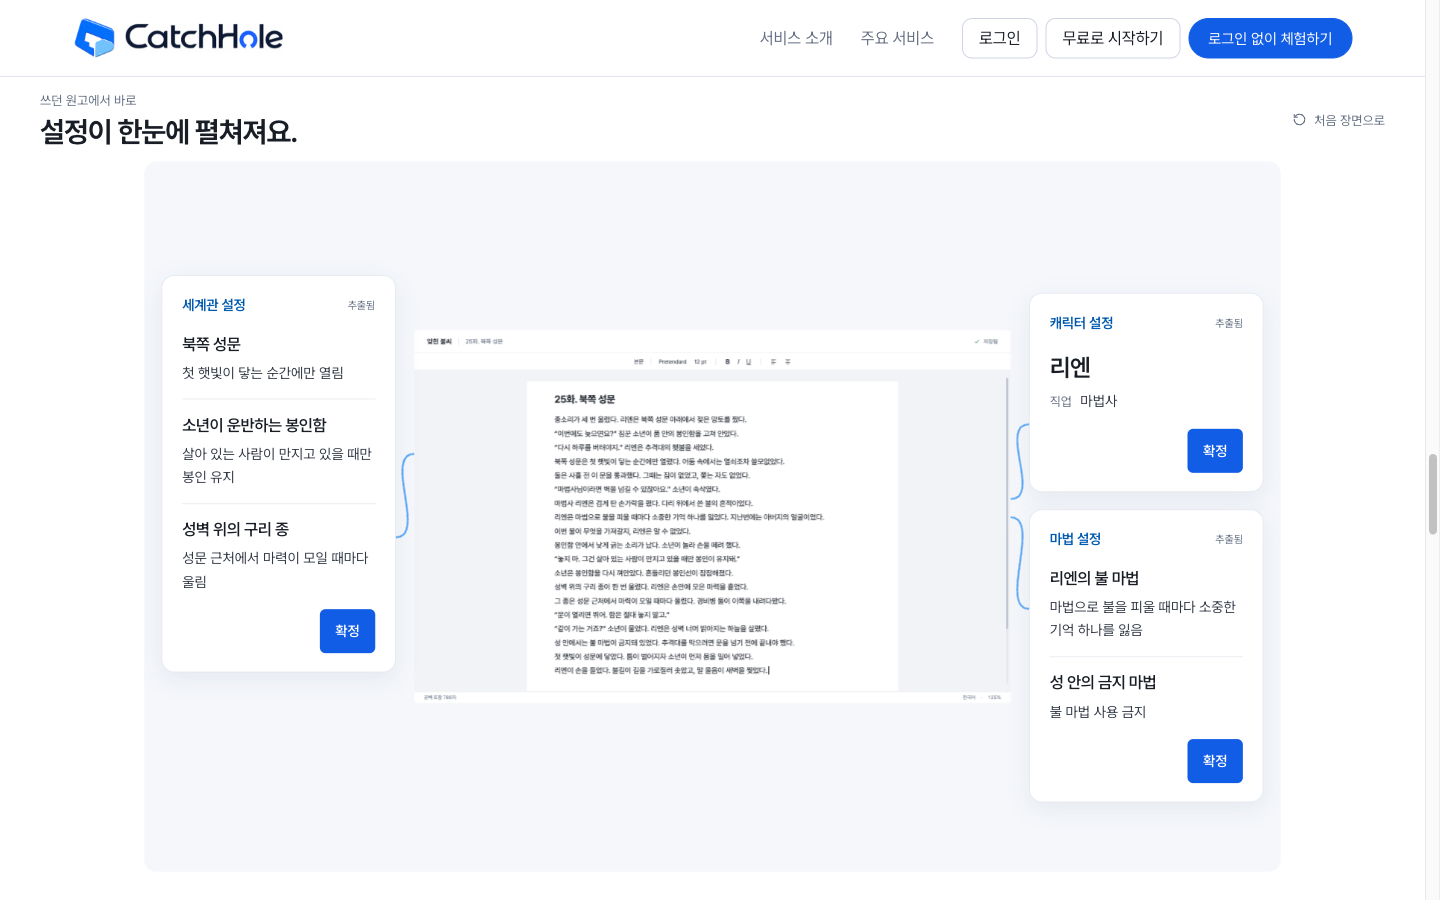
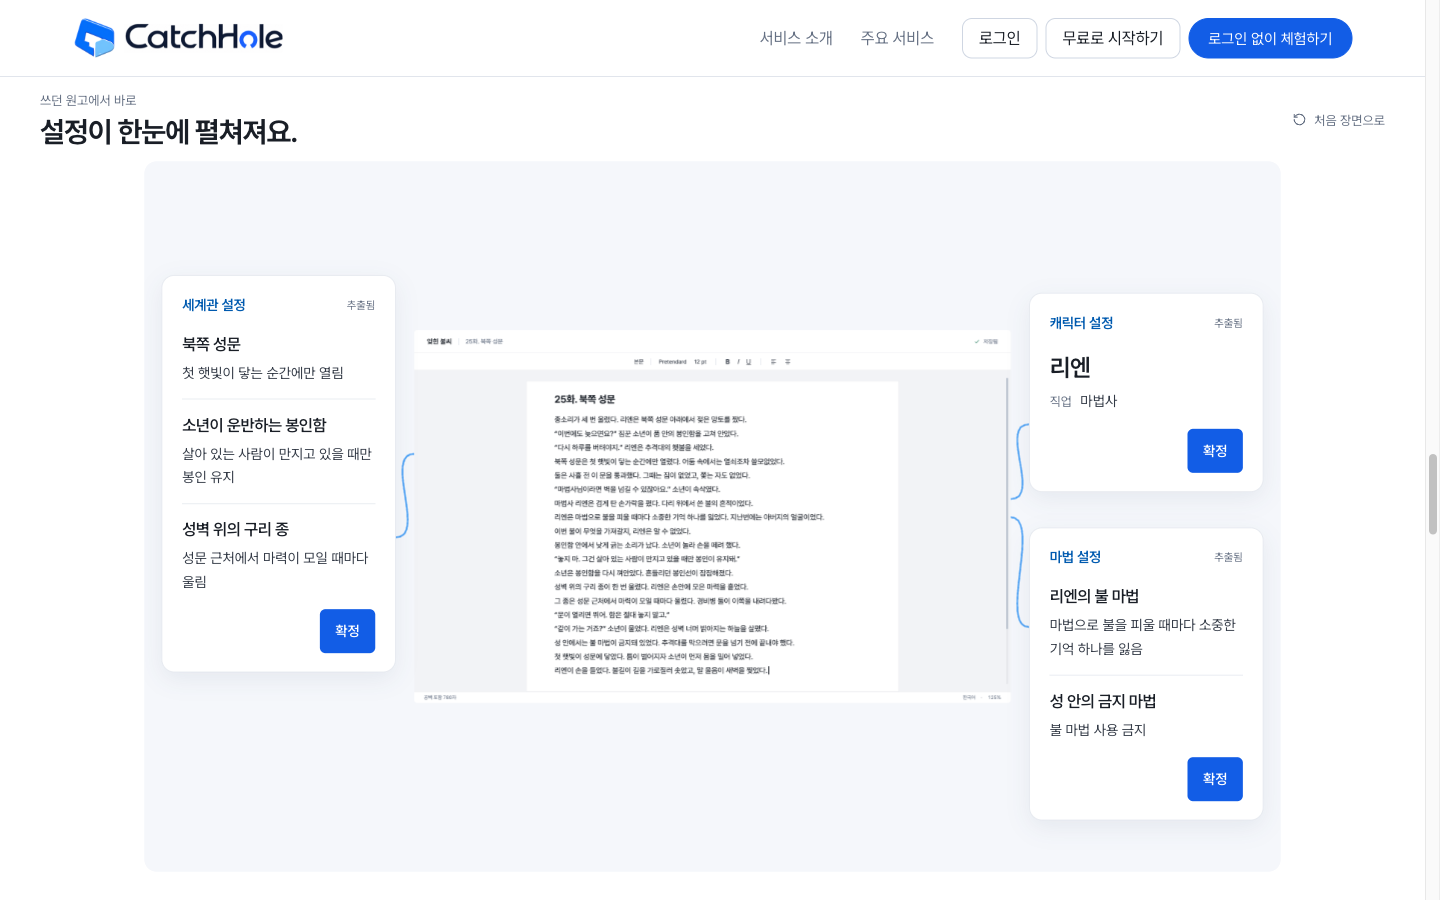
docs(landing): 리뷰 보완 후 디자인 캡처와 재생 규칙 갱신
- Pencil에서 참조하는 설정 추출·완료 캡처를 가독성 보완이 적용된 실제 화면으로 갱신한다.
- 모션 감소 시 수동 확정, 백그라운드 최초 재생 보류, 낮은 화면에서의 카드 배치 기준을 기록한다.
- 승인한 화면 흐름과 검증 기록을 코드 수정과 분리해 디자인 산출물만 독립적으로 확인할 수 있게 한다.

Changed region(s): [[0.7188, 0.5911, 0.875, 0.84], [0.8125, 0.8089, 0.875, 0.9022], [0.8438, 0.5911, 0.875, 0.6222]]

diff --git a/docs/screen-flow.md b/docs/screen-flow.md
@@ -616,5 +616,7 @@ flowchart TD
 
 - 데스크톱: 여백·둥근 모서리가 있는 작가 장면 → 스크롤/드래그로 확장·영상 진행 → 노트북 마지막 프레임 → 25화 원고 → 원고 주변의 설정 6개 → 종류별 확정 → 체험·무료 시작 CTA → 기존 제품 데모와 하단 소개. 같은 스크롤 위치에서 같은 장면을 표시한다.
 - 모바일(680px 이하): 첫 화면 영상 일반 재생 → 같은 위치에서 25화 원고 표시 → 세계관·캐릭터·마법 설정 6개가 세로로 순차 추출 → 종류별 확정 → 완료 문구와 체험·무료 시작 CTA → 기존 제품 소개. 영상 이후 약 18초의 시간 기반 진행이며 스크롤 위치와 연결하거나 자동 스크롤하지 않는다. 영상과 추출의 일시정지·재개, 직접 확정, 전체 다시 보기를 제공한다. 모달·탭 비활성 시 진행을 멈춘다.
-- 모션 감소: 자동 재생·스크롤 애니메이션 없이 수동 재생과 정적 장면 탐색을 제공한다.
+- 모션 감소: 자동 재생·스크롤 애니메이션 없이 수동 재생과 정적 장면 탐색을 제공한다. 모바일 영상이 끝난 뒤 추출 재생 버튼은 숨기고 종류별 수동 확정과 완료 후 다시 보기만 제공한다.
+- 백그라운드 탭에서 처음 열면 영상 시작을 보류하고 탭이 보일 때 재생한다. 이미 재생 중이던 탭을 숨기면 멈추며, 복귀 후에는 사용자가 직접 재개한다.
+- 높이가 낮은 데스크톱에서도 설정 본문·상태 글자의 최소 표시 크기를 유지하고, 오른쪽 두 카드의 간격은 실제 카드 높이를 기준으로 확보한다.
 - 영상 탐색·설정 확정은 소개용 로컬 상태이며 API·로그인·설정 DB를 변경하지 않는다. CTA는 기존 `/demo`, `/login`, `/signup` 동선을 유지한다.
